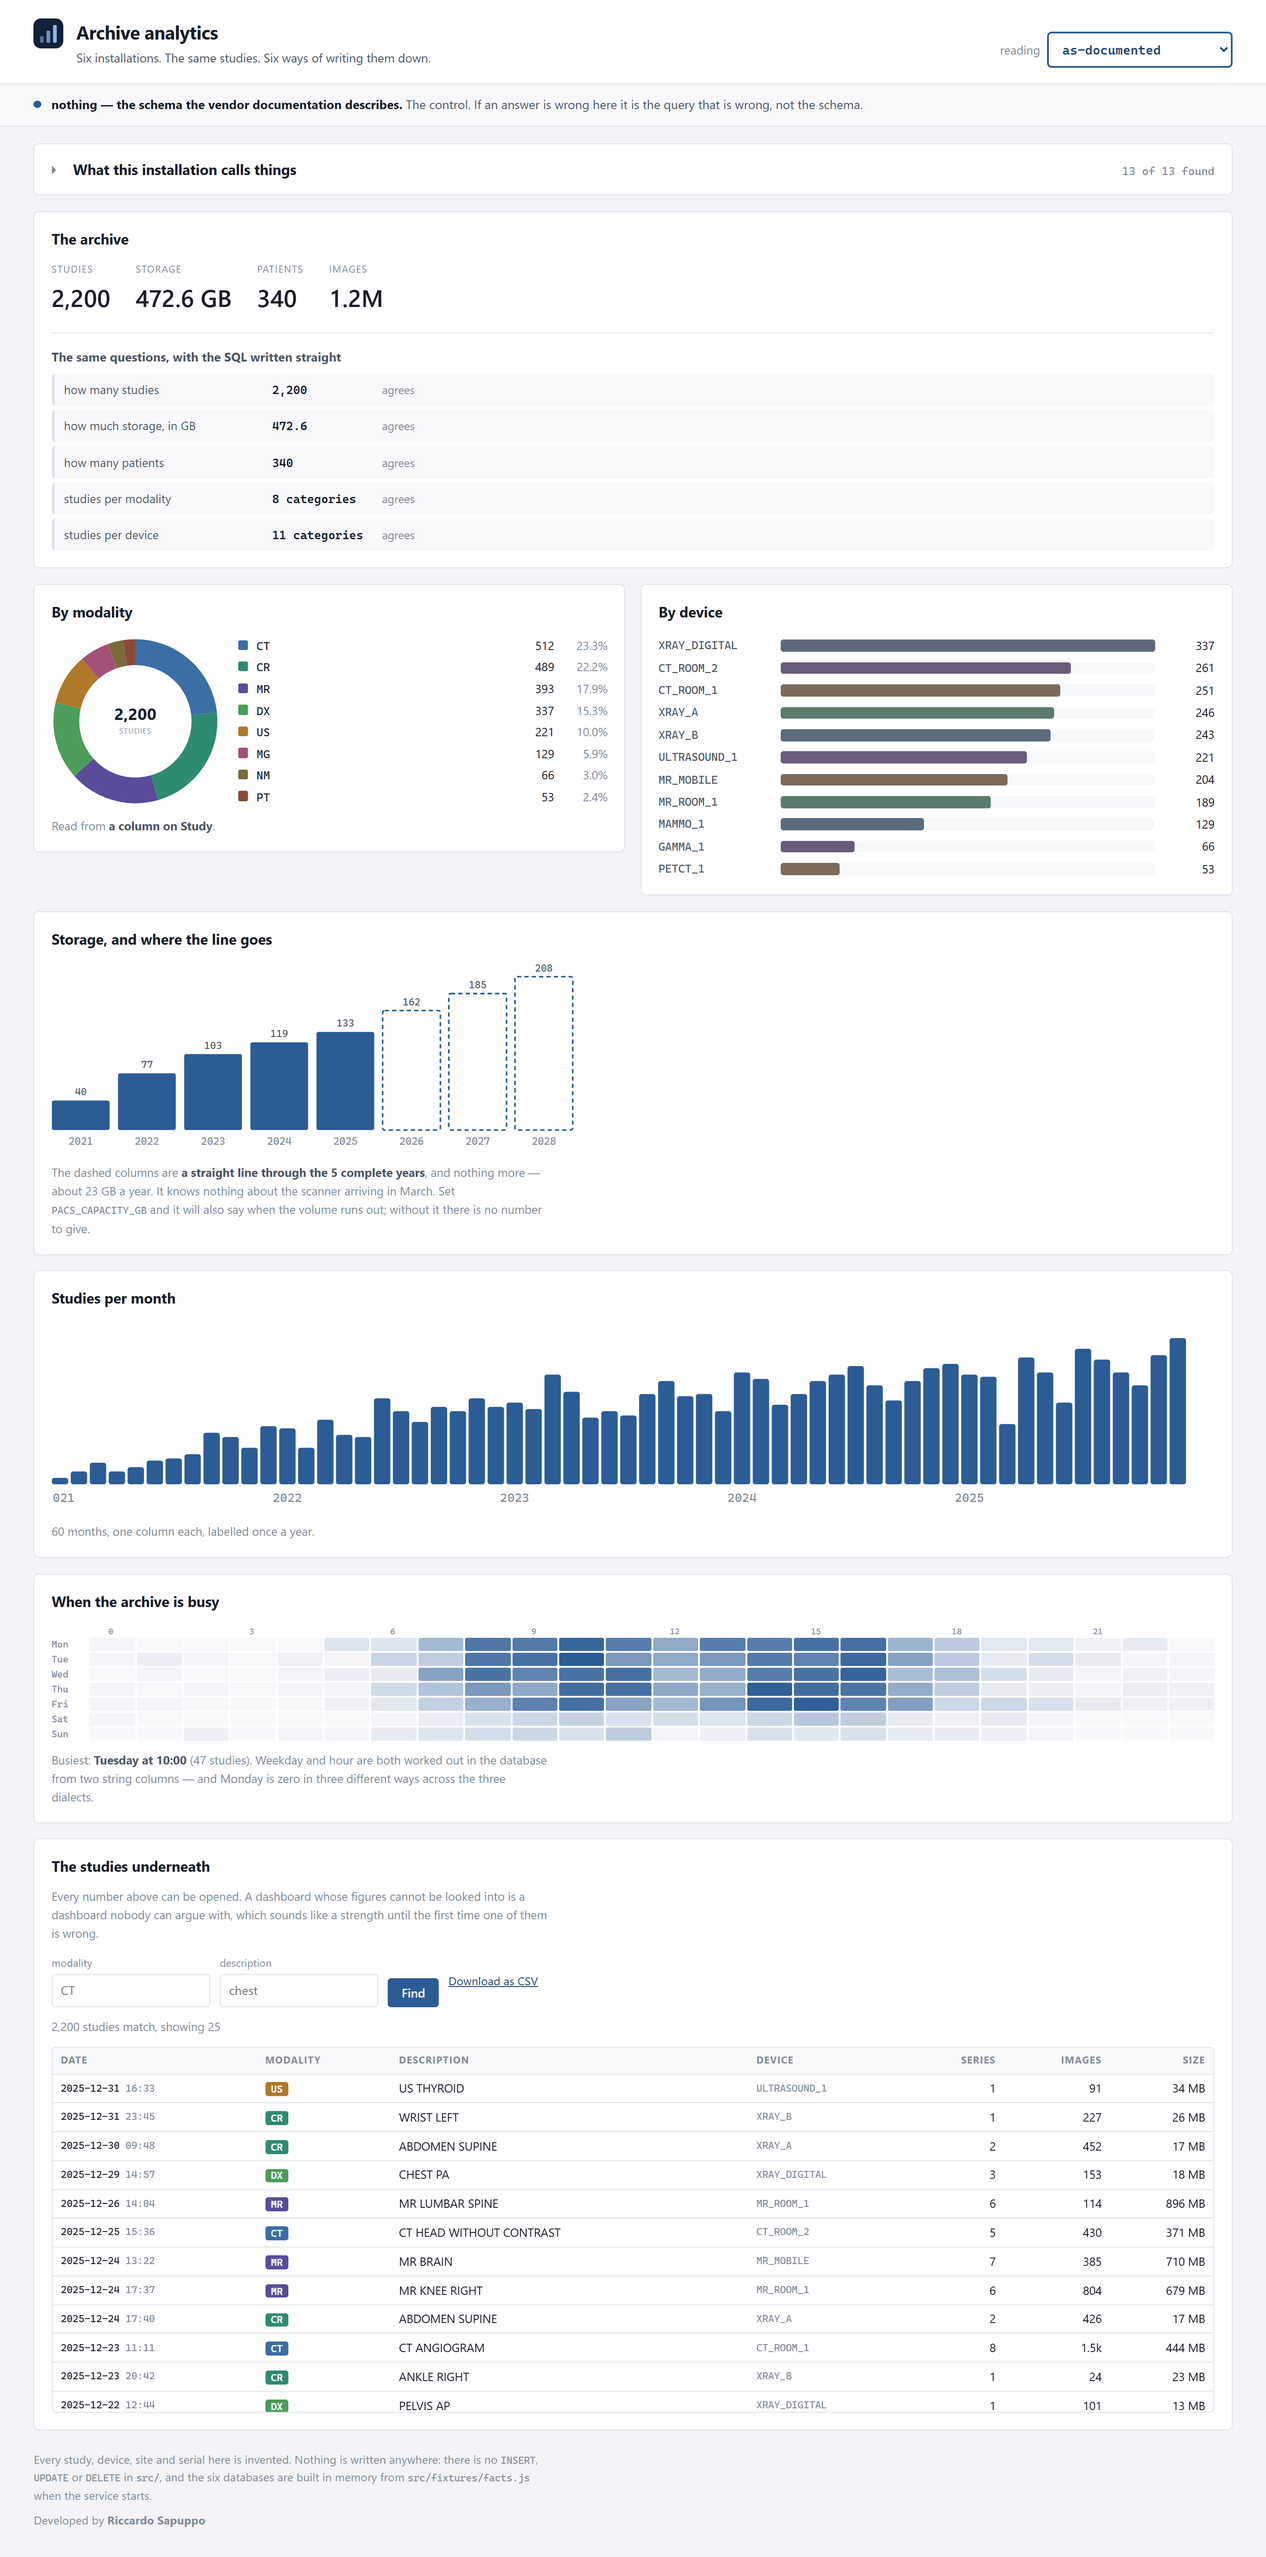
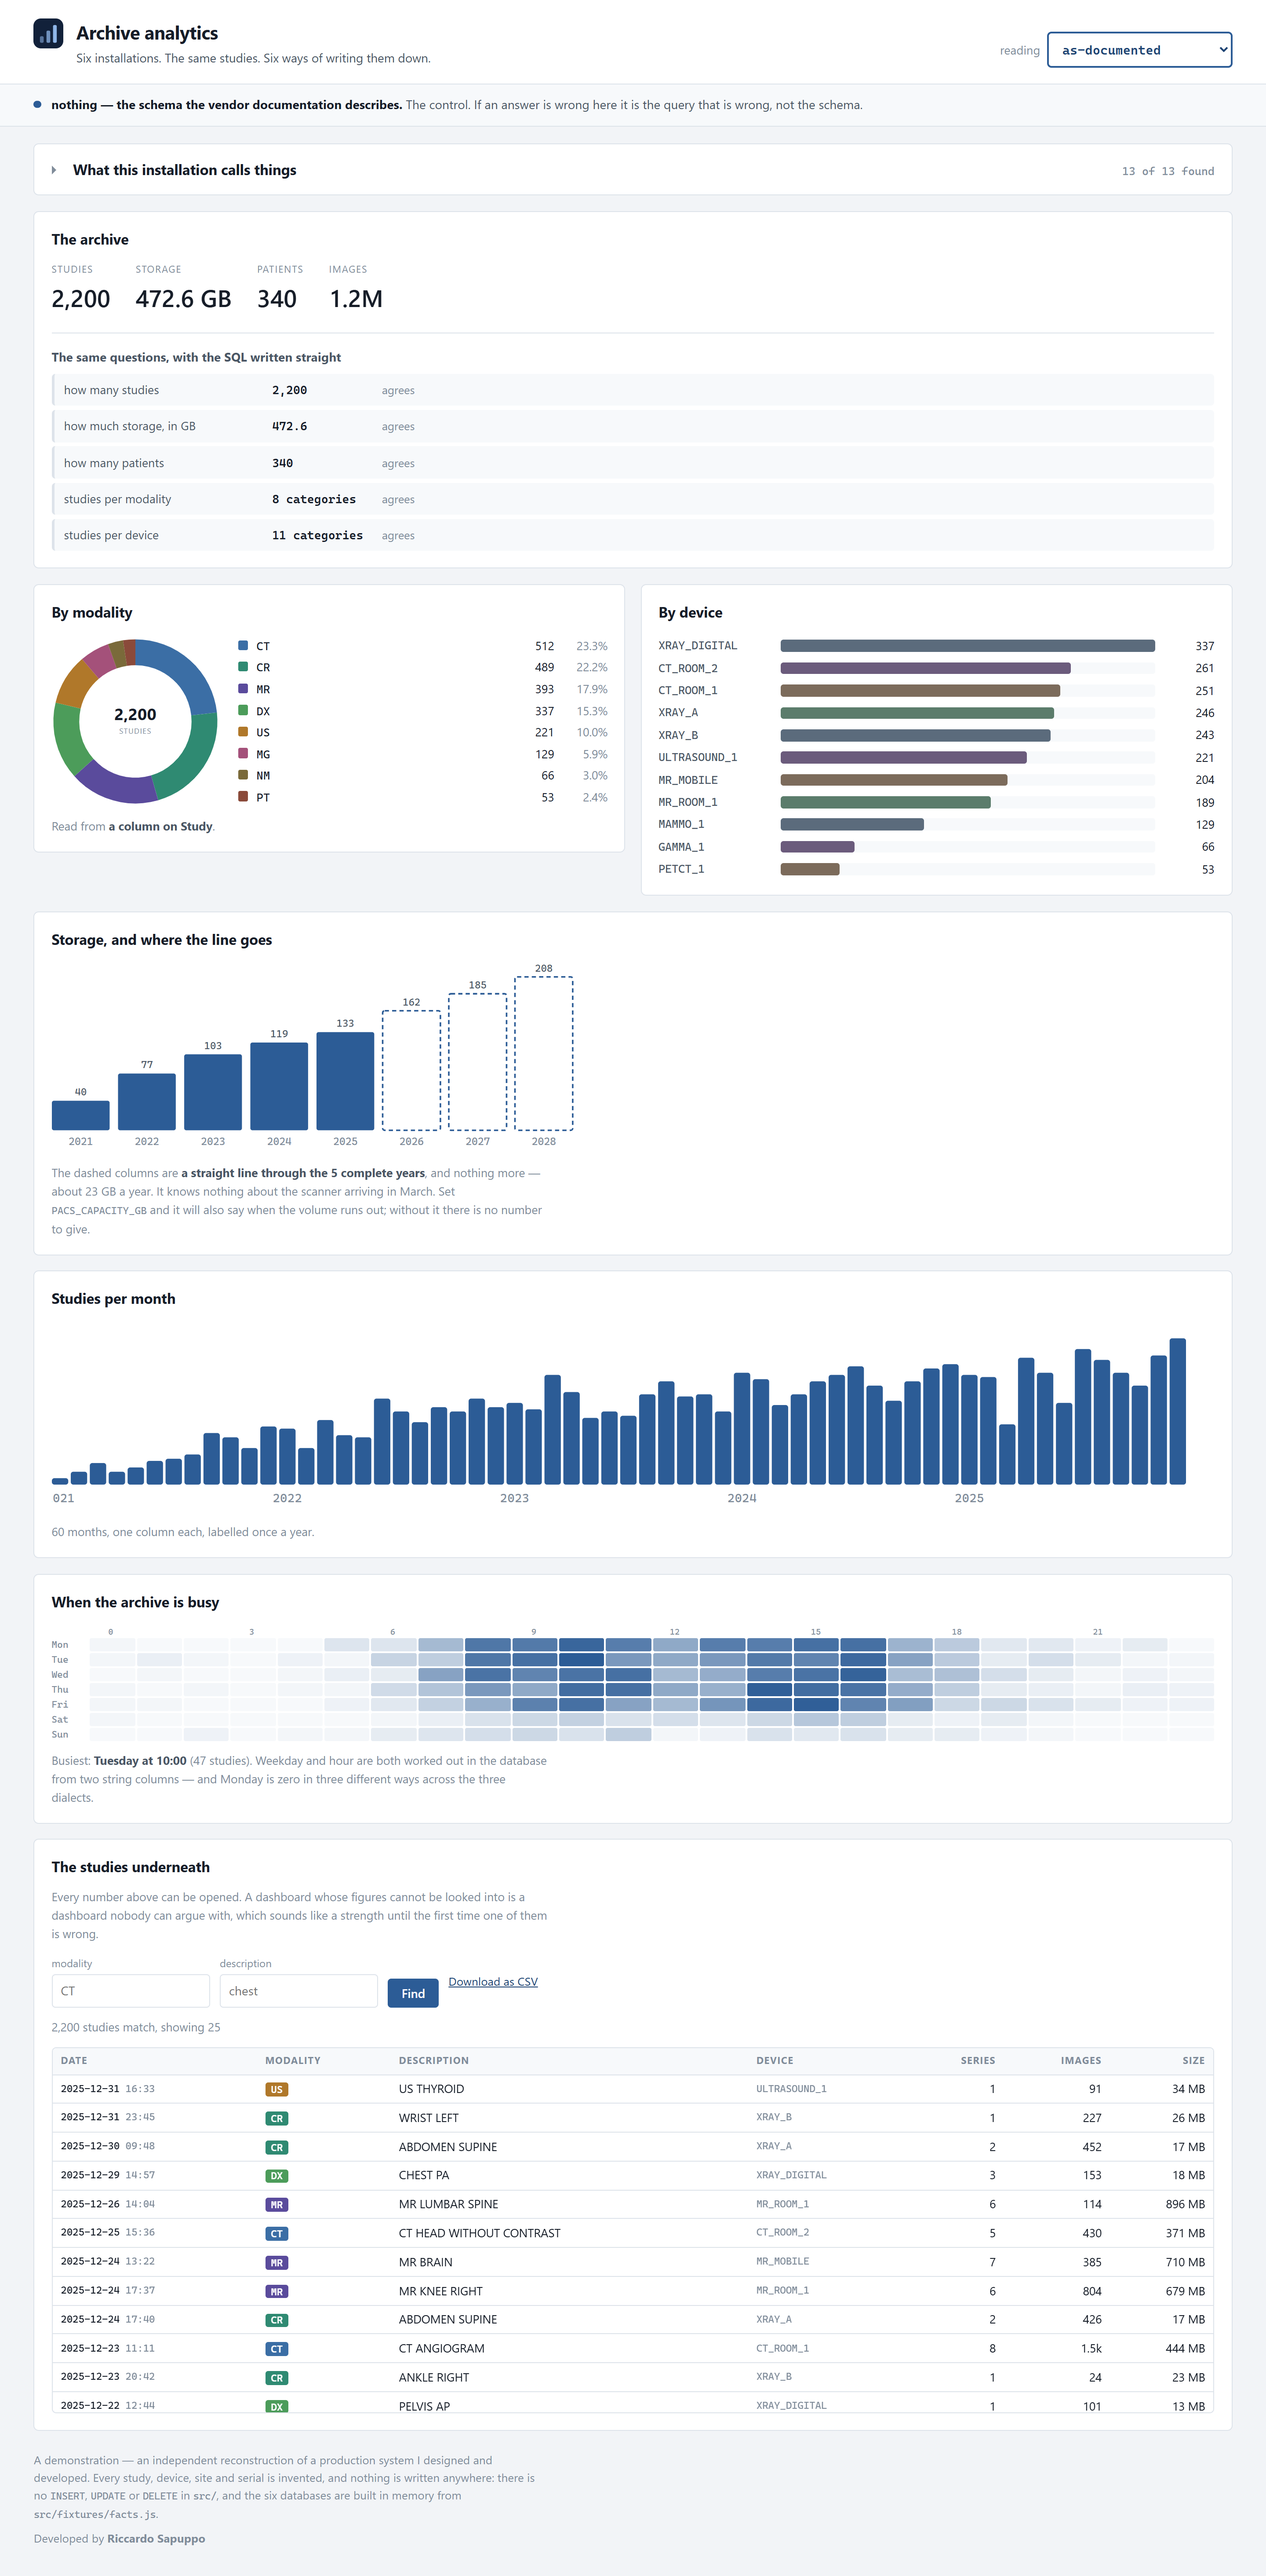
What this reconstructs, and what is not in it
The work was here and its origin was not. This adds the notice: a
reconstruction of a production system, rebuilt because confidentiality and
intellectual property keep the original out of a public repository, with newly
written code and invented data.

The same notice stands in every repository in this portfolio, character for
character, and a check compares them rather than trusting that they still
match. A block nobody compares has drifted by the third edit, and reading it
does not catch that.

Where there is a page to open, the short form of it joins the footer note about
the invented data rather than adding a second one: somebody arriving from a
direct link never sees this file.

diff --git a/public/index.html b/public/index.html
@@ -169,10 +169,11 @@
 
     <footer>
       <p>
-        Every study, device, site and serial here is invented. Nothing is written
-        anywhere: there is no <code>INSERT</code>, <code>UPDATE</code> or
-        <code>DELETE</code> in <code>src/</code>, and the six databases are built
-        in memory from <code>src/fixtures/facts.js</code> when the service starts.
+        A demonstration — an independent reconstruction of a production system I
+        designed and developed. Every study, device, site and serial is invented, and
+        nothing is written anywhere: there is no <code>INSERT</code>,
+        <code>UPDATE</code> or <code>DELETE</code> in <code>src/</code>, and the six
+        databases are built in memory from <code>src/fixtures/facts.js</code>.
       </p>
       <p class="by">Developed by <strong>Riccardo Sapuppo</strong></p>
     </footer>

diff --git a/README.md b/README.md
@@ -291,6 +291,19 @@ announce that the archive is shrinking.
 second on a corpus this size; a real deployment needs the incremental version of
 the same argument, not a way around it.
 
+## Production reconstruction
+
+This repository is an independent reconstruction of a production system I
+designed and developed.
+
+Confidentiality and intellectual property constraints mean the original cannot
+be published. It was rebuilt from scratch so it could be shown and run,
+preserving the core architecture, workflows and technical challenges of the
+production solution, with newly written code and fictional data.
+
+No proprietary source code, confidential data or client assets from the
+original system are included in this repository.
+
 ---
 
 ![The mark, at 16, 32 and 64 pixels](docs/the-mark.png)
